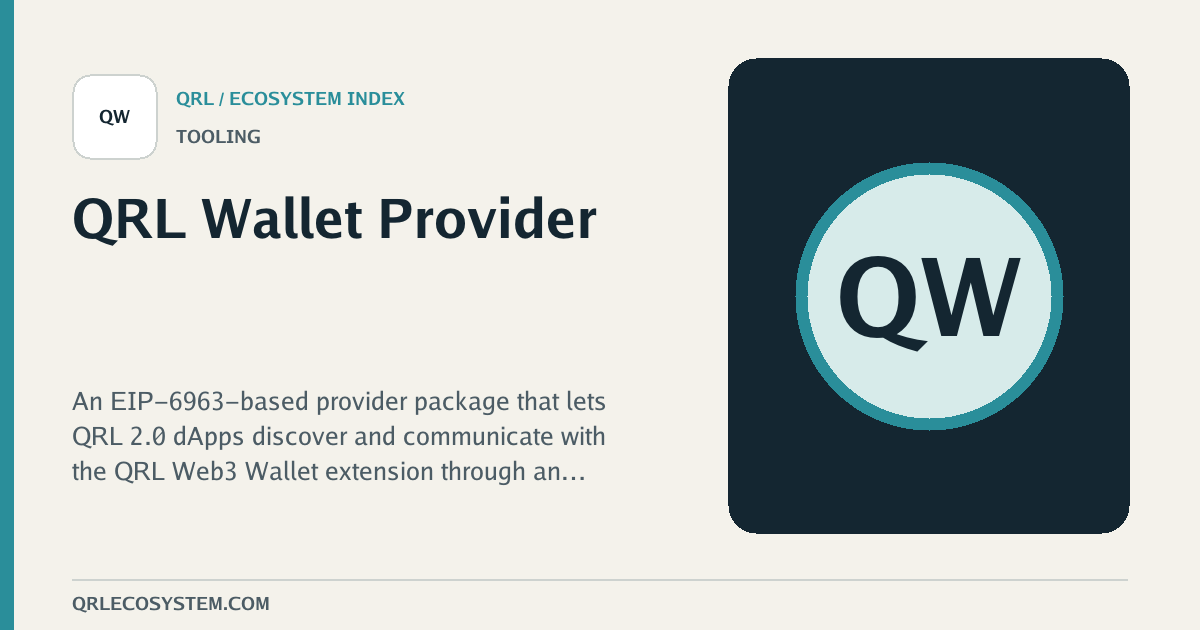
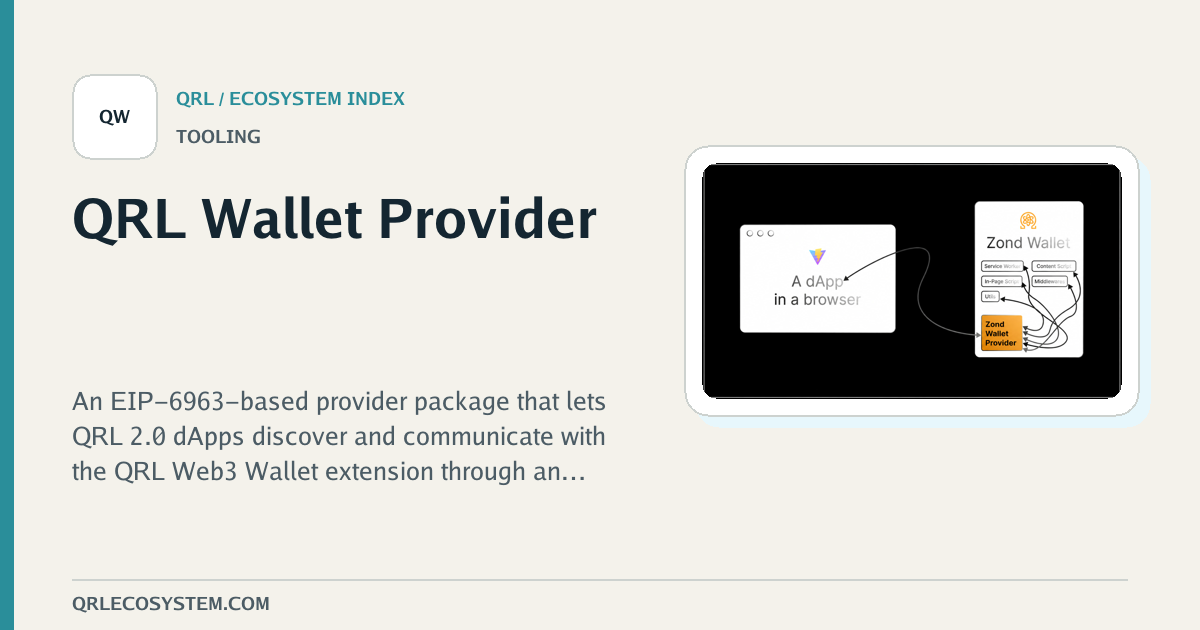
Add QRL Wallet Provider Gallery

Changed region(s): [[0.5858, 0.0905, 0.9558, 0.8746]]

diff --git a/website/content/projects/active/qrl-wallet-provider.md b/website/content/projects/active/qrl-wallet-provider.md
@@ -9,7 +9,7 @@ capabilities:
 categories:
     - developer-experience
     - security-custody-account-management
-data_updated_at: "2026-08-17"
+data_updated_at: "2026-08-24"
 description: An EIP-6963-based provider package that lets QRL 2.0 dApps discover and communicate with the QRL Web3 Wallet extension through an Ethereum-style request, event, and JSON-RPC interface.
 display_status: Beta
 features:
@@ -17,6 +17,10 @@ features:
     - Ethereum-style request and event provider interface
     - PostMessage streams between dApps and the browser extension
     - Published TypeScript package for QRL dApp integrations
+gallery:
+    - type: image
+      path: qrl-wallet-provider/provider-architecture.jpg
+      caption: Architecture overview showing a browser dApp connected to the QRL wallet extension through the wallet provider.
 id: qrl-wallet-provider
 keywords:
     - wallet
